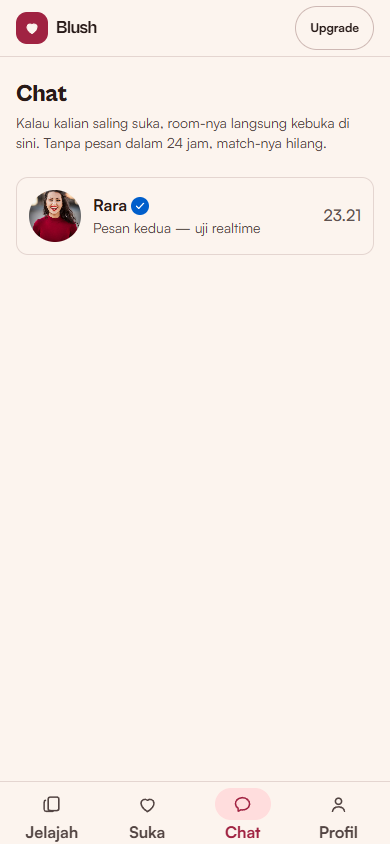
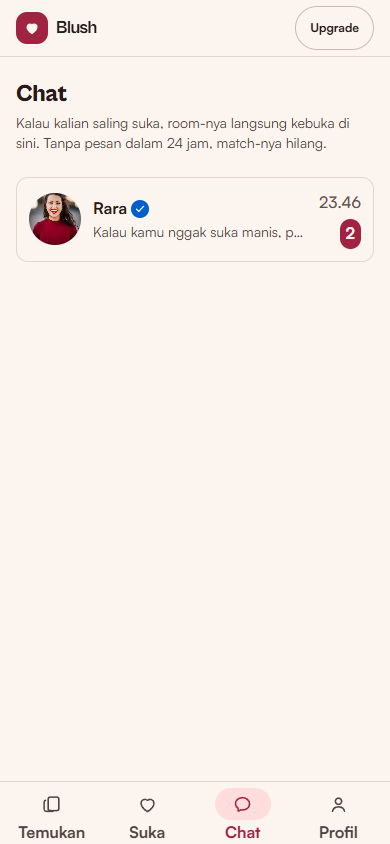
Landing: hierarki tipografi, copy trust, tab Temukan

diff --git a/src/app/page.tsx b/src/app/page.tsx
@@ -74,7 +74,7 @@ function DeckPreview() {
         </div>
 
         <div className="flex items-center justify-around border-t border-line px-2 pb-2.5 pt-1.5">
-          <Tab name="deck" label="Jelajah" active />
+          <Tab name="deck" label="Temukan" active />
           <Tab name="heart" label="Suka" />
           <Tab name="chat" label="Chat" />
           <Tab name="user" label="Profil" />
@@ -101,20 +101,20 @@ export default function Home() {
 
       <div className="mx-auto grid max-w-4xl gap-4 px-4 pb-8 pt-1 md:min-h-[calc(100dvh-3.5rem)] md:grid-cols-[1fr_auto] md:items-center md:gap-10 md:pb-10">
         <div className="min-w-0 md:max-w-[24rem]">
-          <h1 className="text-[1.75rem] font-bold leading-[1.06] tracking-[-0.03em] sm:text-[2.6rem]">
+          <h1 className="text-[2.05rem] font-bold leading-[1.03] tracking-[-0.032em] sm:text-[2.9rem]">
             Cari yang beneran,
             <br />
             bukan yang basa-basi.
           </h1>
-          <p className="mt-3 max-w-[34ch] text-sm leading-relaxed text-ink-soft">
-            Isi profil sekali, geser kalau ada yang menarik. Saling suka, chat langsung terbuka.
+          <p className="mt-3 max-w-[32ch] text-[0.95rem] leading-relaxed text-ink-soft">
+            Isi profil sekali. Geser yang menarik, lewati yang nggak. Saling suka, chat langsung kebuka.
           </p>
 
           <div className="mt-5 hidden gap-2 md:grid">
             <Link href="/signup" className={primary}>
               Buat akun
             </Link>
-            <p className="text-center text-2xs font-medium text-ink">Gratis · 18+ · tanpa kartu kredit.</p>
+            <p className="text-center text-2xs font-medium text-ink">Gratis buat mulai · Verifikasi foto dapat centang biru · 18+</p>
           </div>
         </div>
 
@@ -126,7 +126,7 @@ export default function Home() {
           <Link href="/signup" className={primary}>
             Buat akun
           </Link>
-          <p className="text-center text-2xs font-medium text-ink">Gratis · 18+ · tanpa kartu kredit.</p>
+          <p className="text-center text-2xs font-medium text-ink">Gratis buat mulai · Verifikasi foto dapat centang biru · 18+</p>
         </div>
       </div>
     </main>

diff --git a/src/components/BottomNav.tsx b/src/components/BottomNav.tsx
@@ -5,7 +5,7 @@ import { usePathname } from "next/navigation";
 import { Icon, type IconName } from "@/components/Icon";
 
 const TABS: { href: string; label: string; icon: IconName; match: string[] }[] = [
-  { href: "/app/discover", label: "Jelajah", icon: "deck", match: ["/app/discover"] },
+  { href: "/app/discover", label: "Temukan", icon: "deck", match: ["/app/discover"] },
   { href: "/app/likes", label: "Suka", icon: "heart", match: ["/app/likes"] },
   { href: "/app/matches", label: "Chat", icon: "chat", match: ["/app/matches", "/app/chat"] },
   { href: "/app/profile", label: "Profil", icon: "user", match: ["/app/profile"] },

diff --git a/src/app/app/layout.tsx b/src/app/app/layout.tsx
@@ -29,7 +29,7 @@ export default async function AppLayout({ children }: { children: React.ReactNod
   }
 
   const links = [
-    { href: "/app/discover", label: "Jelajah" },
+    { href: "/app/discover", label: "Temukan" },
     { href: "/app/likes", label: "Suka" },
     { href: "/app/matches", label: "Chat" },
     { href: "/app/profile", label: "Profil" },
